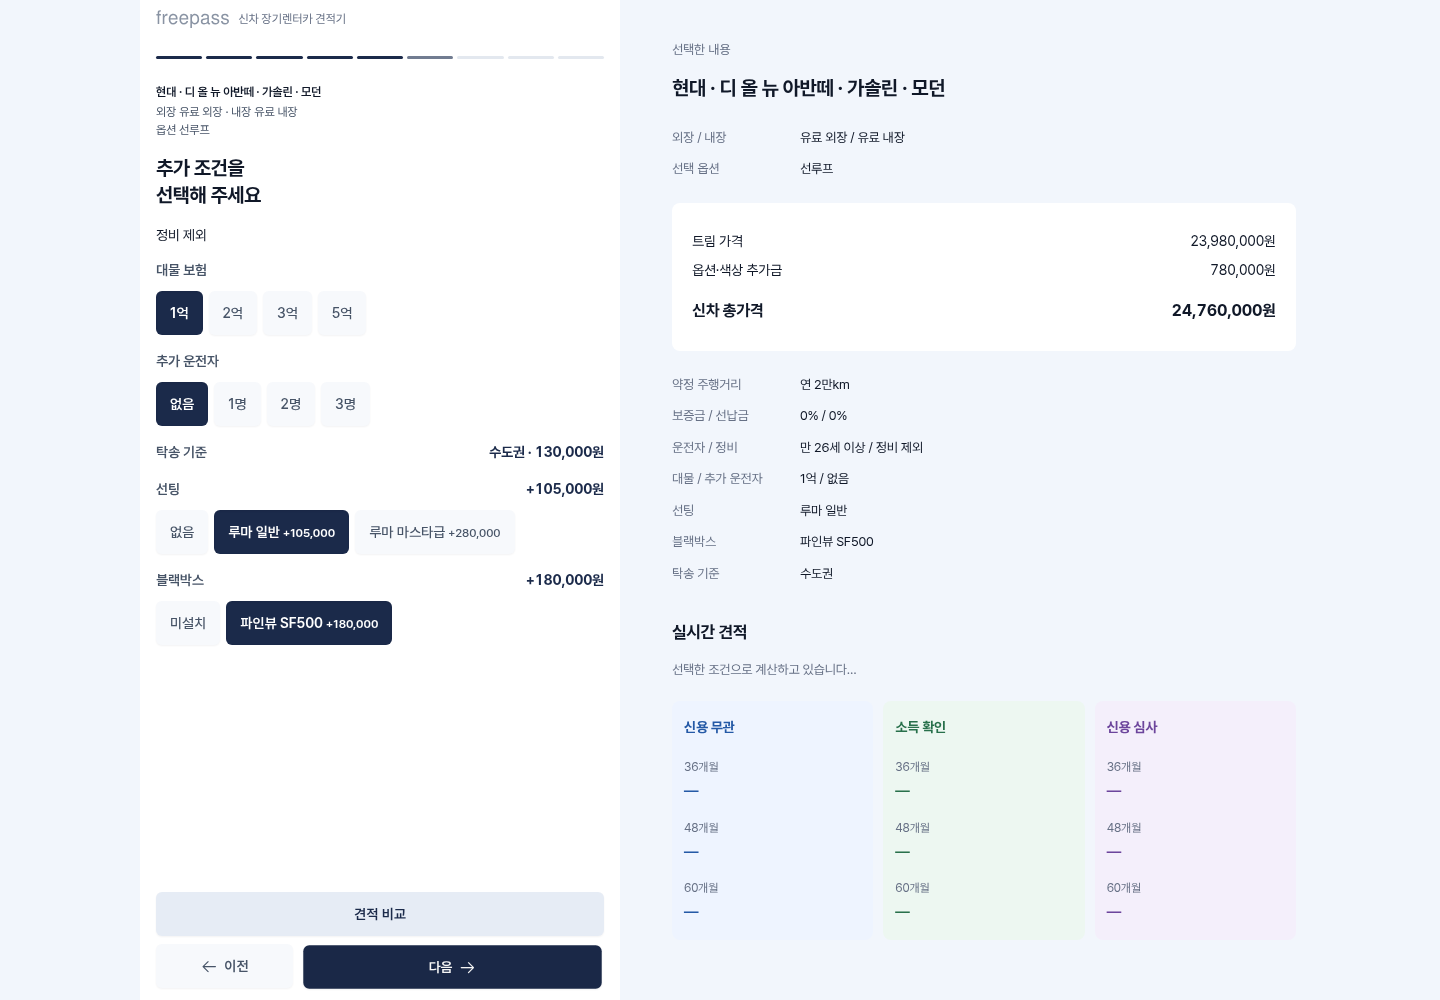
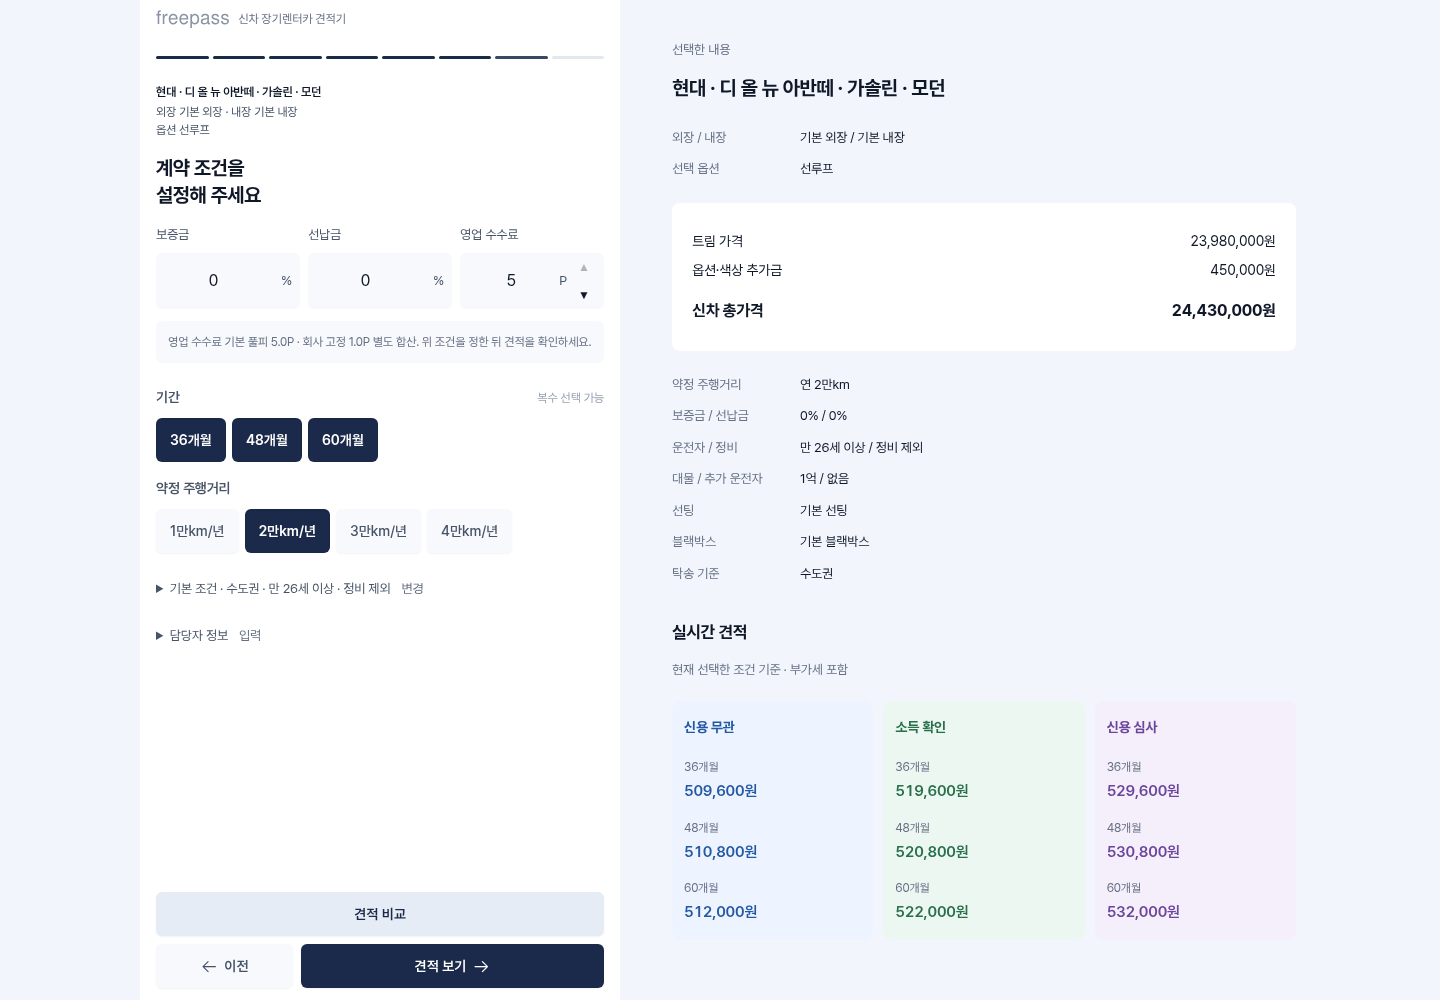
feat: streamline vehicle-to-finance flow with default colors and provider basic supplies

diff --git a/apps/new/src/components/mobile/StepConditions.vue b/apps/new/src/components/mobile/StepConditions.vue
@@ -3,6 +3,7 @@ import { computed } from 'vue';
 import { quoteState } from '../../store.js';
 import { KM_OPTIONS, toggleQuoteTerm, applyScenarioPercent } from '../../lib/feature/conditions.js';
 import FeeControl from '../FeeControl.vue';
+import StepExtras from './StepExtras.vue';
 
 const TERMS = [36, 48, 60];
 const KMS = KM_OPTIONS;
@@ -19,7 +20,12 @@ function toggleTerm(t) {
   <div class="sc">
     <h2 class="sc-title">계약 조건을<br>설정해 주세요</h2>
 
-    <p class="sc-note">보증금·선납금과 영업 수수료를 정한 뒤 견적을 확인하세요. 수수료는 풀피 5.0P로 시작합니다.</p>
+    <div class="sc-finance">
+      <label class="sc-finance__field"><span>보증금</span><span class="sc-finance__input"><input aria-label="보증금" type="number" inputmode="decimal" :value="quoteState.cond.dep" min="0" max="30" step="1" @input="applyScenarioPercent(quoteState, 'dep', $event.target.value)" /><span>%</span></span></label>
+      <label class="sc-finance__field"><span>선납금</span><span class="sc-finance__input"><input aria-label="선납금" type="number" inputmode="decimal" :value="quoteState.cond.pre" min="0" max="30" step="1" @input="applyScenarioPercent(quoteState, 'pre', $event.target.value)" /><span>%</span></span></label>
+      <div class="sc-finance__fees"><FeeControl compact /></div>
+    </div>
+    <p class="sc-note">영업 수수료 기본 풀피 5.0P · 회사 고정 1.0P 별도 합산. 위 조건을 정한 뒤 견적을 확인하세요.</p>
 
     <div class="sc-field">
       <div class="sc-label">
@@ -45,13 +51,15 @@ function toggleTerm(t) {
       </div>
     </div>
 
-    <div class="sc-finance">
-      <label class="sc-finance__field"><span>보증금</span><span class="sc-finance__input"><input aria-label="보증금" type="number" inputmode="decimal" :value="quoteState.cond.dep" min="0" max="30" step="1" @input="applyScenarioPercent(quoteState, 'dep', $event.target.value)" /><span>%</span></span></label>
-      <label class="sc-finance__field"><span>선납금</span><span class="sc-finance__input"><input aria-label="선납금" type="number" inputmode="decimal" :value="quoteState.cond.pre" min="0" max="30" step="1" @input="applyScenarioPercent(quoteState, 'pre', $event.target.value)" /><span>%</span></span></label>
-      <FeeControl />
+    <details class="sc-extra-conditions">
+      <summary>기본 조건 · 수도권 · 만 26세 이상 · 정비 제외 <span>변경</span></summary>
+      <StepExtras embedded />
+    </details>
+    <details class="sc-staff">
+      <summary>담당자 정보 <span>{{ quoteState.staff.name || '입력' }}</span></summary>
       <label class="sc-finance__field"><span>담당자 이름</span><input v-model.trim="quoteState.staff.name" aria-label="담당자 이름" type="text" autocomplete="name" maxlength="40" placeholder="이름 또는 직함" /></label>
       <label class="sc-finance__field"><span>담당자 연락처</span><input v-model.trim="quoteState.staff.tel" aria-label="담당자 연락처" type="tel" autocomplete="tel" maxlength="30" placeholder="010-0000-0000" /></label>
-    </div>
+    </details>
   </div>
 </template>
 
@@ -136,4 +144,17 @@ function toggleTerm(t) {
   font-style: normal; font-size: var(--fs-md);
   color: var(--ink-4); flex-shrink: 0;
 }
+</style>
+
+<style scoped>
+.sc-finance { display:grid; grid-template-columns:repeat(3,minmax(0,1fr)); gap:8px; margin:16px 0 12px; align-items:start; }
+.sc-finance > .sc-finance__field { display:flex; flex-direction:column; align-items:stretch; margin:0; gap:8px; min-width:0; font-size:13px; }
+.sc-finance__input { padding-inline:8px; gap:3px; min-height:56px; }
+.sc-finance__input input { width:100%; min-width:0; text-align:center; }
+.sc-finance__fees { min-width:0; }
+.sc-extra-conditions,.sc-staff { margin:24px 0; font-size:13px; }
+summary { cursor:pointer; line-height:1.8; color:var(--ink-2); }
+summary span { color:var(--ink-3); margin-left:8px; }
+.sc-extra-conditions[open] > summary,.sc-staff[open] > summary { margin-bottom:20px; }
+.sc-note { margin-bottom:24px; }
 </style>

diff --git a/apps/new/src/components/mobile/StepExtras.vue b/apps/new/src/components/mobile/StepExtras.vue
@@ -1,9 +1,11 @@
 <script setup>
 import { computed } from 'vue';
 import { quoteState } from '../../store.js';
-import { 썬팅들, 블박들 } from '../../lib/welrix-rates.js';
+import { 썬팅들, 블박들, 기본용품표시 } from '../../lib/welrix-rates.js';
 import { fmt } from '../../lib/format.js';
 import { resolveQuoteConditionCosts } from '../../lib/quote/condition-costs.js';
+
+defineProps({ embedded: { type:Boolean, default:false } });
 
 const INS = [
   { value: '1억', label: '1억' },
@@ -26,7 +28,7 @@ const dashcamFee = computed(() => currentCosts.value.dashcamFee);
 
 <template>
   <div class="se">
-    <h2 class="se-title">추가 조건을<br>선택해 주세요</h2>
+    <h2 v-if="!embedded" class="se-title">추가 조건을<br>선택해 주세요</h2>
 
     <p class="se-maintenance">정비 제외</p>
 
@@ -64,14 +66,14 @@ const dashcamFee = computed(() => currentCosts.value.dashcamFee);
     <div class="se-field">
       <div class="se-label">
         선팅
-        <span v-if="tintFee" class="se-label__val">+{{ fmt(tintFee) }}원</span>
+        <span v-if="tintFee && quoteState.tint.product !== '루마 일반'" class="se-label__val">+{{ fmt(tintFee) }}원</span>
       </div>
       <div class="se-chips">
         <button
           v-for="t in 썬팅들" :key="t.name"
           type="button" class="se-chip" :class="{ 'is-selected': quoteState.tint.product === t.name }" :aria-pressed="quoteState.tint.product === t.name"
           @click="quoteState.tint.product = t.name"
-        >{{ t.name }}<small v-if="t.price"> +{{ fmt(t.price) }}</small></button>
+        >{{ 기본용품표시(t.name) }}<small v-if="t.price && t.name !== '루마 일반'"> +{{ fmt(t.price) }}</small></button>
       </div>
     </div>
 
@@ -79,7 +81,7 @@ const dashcamFee = computed(() => currentCosts.value.dashcamFee);
     <div class="se-field">
       <div class="se-label">
         블랙박스
-        <span v-if="dashcamFee" class="se-label__val">
+        <span v-if="dashcamFee && quoteState.extras.blackbox !== '파인뷰 SF500'" class="se-label__val">
           +{{ fmt(dashcamFee) }}원</span>
       </div>
       <div class="se-chips">
@@ -87,7 +89,7 @@ const dashcamFee = computed(() => currentCosts.value.dashcamFee);
           v-for="b in 블박들" :key="b.name"
           type="button" class="se-chip" :class="{ 'is-selected': quoteState.extras.blackbox === b.name }" :aria-pressed="quoteState.extras.blackbox === b.name"
           @click="quoteState.extras.blackbox = b.name"
-        >{{ b.name }}<small v-if="b.price"> +{{ fmt(b.price) }}</small></button>
+        >{{ 기본용품표시(b.name) }}<small v-if="b.price && b.name !== '파인뷰 SF500'"> +{{ fmt(b.price) }}</small></button>
       </div>
     </div>
 

diff --git a/apps/new/src/components/mobile/StepVehicle.vue b/apps/new/src/components/mobile/StepVehicle.vue
@@ -5,7 +5,7 @@ import { 역할 } from '../../lib/role.js';
 import { rolePolicy } from '../../lib/feature/roles.js';
 import { POPULAR_BRAND, POPULAR_MODELS, sortByRank } from '../../data/popular-rankings.js';
 import { fmt, guessColor } from '../../lib/format.js';
-import { colorPriceLabel, exteriorColorsFor } from '../../lib/exterior-paint.js';
+import { colorPriceLabel, exteriorColorsFor, defaultColorIndex } from '../../lib/exterior-paint.js';
 import SelectionSummary from './SelectionSummary.vue';
 import { resolveCanonicalIdentity } from '../../lib/newcar/configuration-resolver.js';
 
@@ -79,7 +79,7 @@ onMounted(() => {
   /* ★공유 링크로 들어온 경우 — 트림은 이미 정해져 있는데 «트림을 고를 때 도는 뒷일»
      (syncVehicle)이 안 돌아서 월 대여료가 «—» 로 남는다. 여기서 한 번 돌려 준다.
      손으로 고른 경우엔 selectTrim 이 이미 돌렸으므로 다시 돌아도 값이 같다. */
-  if (vehicleState.trim) syncVehicle();
+  if (vehicleState.trim) { ensureDefaultColors(); syncVehicle(); }
 });
 
 // sub-step — vehicleState.subStep 에 저장 (MobileApp next() 와 통합)
@@ -344,6 +344,20 @@ function selectSpec(g) {
   resetQuoteVehicleWhenSelectionChanges(result);
   subStep.value = vehicleSelection.nextStepAfterSelection('trimGroup');
 }
+function ensureDefaultColors() {
+  if (!exteriorColors.value[vehicleState.color] || exteriorColors.value[vehicleState.color]?._paintUnavailable) {
+    vehicleState.color = defaultColorIndex(exteriorColors.value);
+  }
+  const current = 내장색들.value.find(color => color.stableId && color.stableId === quoteState.cond.colorIntId || color.value === quoteState.cond.colorInt);
+  if (!current) {
+    const index = defaultColorIndex(내장색들.value);
+    const color = index == null ? null : 내장색들.value[index];
+    quoteState.cond.colorInt = color?.value || '';
+    quoteState.cond.colorIntPrice = color?.price || 0;
+    quoteState.cond.colorIntId = color?.stableId || null;
+  }
+}
+
 function selectTrim(t) {
   const result = vehicleSelection.applySelection(vehicleState, 'trim', t.trim_id);
   if (result.changed) {
@@ -351,8 +365,10 @@ function selectTrim(t) {
     quoteState.cond.colorIntPrice = 0;
     quoteState.cond.colorIntId = null;
     quoteState.vehicle = null;
+    ensureDefaultColors();
     syncVehicle();
   } else if (!quoteState.vehicle) {
+    ensureDefaultColors();
     syncVehicle();
   }
 

diff --git a/apps/new/src/components/FeeControl.vue b/apps/new/src/components/FeeControl.vue
@@ -3,6 +3,7 @@ import { computed, ref, watch } from 'vue';
 import { commissionForAgent } from '../lib/quote/commission-policy.js';
 import { quoteState } from '../store.js';
 import { CONDITION_LIMITS, normalizeFeeRate } from '../lib/feature/conditions.js';
+defineProps({ compact: { type:Boolean, default:false } });
 const rule = CONDITION_LIMITS.feeRatePct;
 const commission = computed(() => commissionForAgent(quoteState.cond.feeRatePct));
 const draft = ref(String(quoteState.cond.feeRatePct));
@@ -21,7 +22,7 @@ function adjust(direction) {
 </script>
 
 <template>
-  <div class="fee-control">
+  <div class="fee-control" :class="{ 'fee-control--compact':compact }">
     <span>영업 수수료</span>
     <div class="fee-control__input">
       <input type="number" aria-label="영업 수수료" inputmode="decimal" :value="draft" :min="rule.min" :max="rule.max" :step="rule.step" @input="draft = $event.target.value" @change="apply(draft)" @blur="apply(draft)" @keydown.enter="apply(draft)" />
@@ -32,7 +33,7 @@ function adjust(direction) {
       </div>
     </div>
   </div>
-  <p class="fee-control__hint">0.5P 단위 · 회사 1.0P 고정 + 영업 {{ commission.agentPoints.toFixed(1) }}P = 적용 {{ commission.totalPoints.toFixed(1) }}P</p>
+  <p class="fee-control__hint" :class="{ 'fee-control__hint--compact':compact }">0.5P 단위 · 회사 1.0P 고정 + 영업 {{ commission.agentPoints.toFixed(1) }}P = 적용 {{ commission.totalPoints.toFixed(1) }}P</p>
 </template>
 
 <style scoped>
@@ -49,4 +50,12 @@ input::-webkit-inner-spin-button, input::-webkit-outer-spin-button { -webkit-app
 .fee-control__buttons button { border:0; background:transparent; color:var(--fp-text); min-width:44px; min-height:32px; cursor:pointer; font-size:12px; }
 .fee-control__buttons button:disabled { opacity:.3; cursor:default; }
 .fee-control__buttons button:focus-visible { outline:3px solid var(--fp-focus-ring); border-radius:4px; }
+</style>
+
+<style scoped>
+.fee-control--compact { display:flex; flex-direction:column; align-items:stretch; gap:8px; max-width:none; margin:0; font-size:13px; }
+.fee-control--compact .fee-control__input { gap:3px; padding:0 6px; min-width:0; }
+.fee-control--compact input { width:100%; min-width:0; text-align:center; }
+.fee-control--compact .fee-control__buttons button { min-width:28px; min-height:28px; }
+.fee-control__hint--compact { display:none; }
 </style>

diff --git a/apps/new/api/kamatch-comparison.js b/apps/new/api/kamatch-comparison.js
@@ -1,3 +1,4 @@
+import { kamatchExtraOptions } from './_kamatch/condition-costs.js';
 import { commissionFromConditions } from '../src/lib/quote/commission-policy.js';
 import { authoritativeQuoteRequest } from './_master/authoritative-request.js';
 import { calculateKamatchScenario } from './_kamatch/calculate.js';
@@ -21,7 +22,7 @@ export function createKamatchComparisonHandler({ loadMaster, loadReference = loa
       if(!Number.isFinite(mileage)||mileage<=0||!Number.isFinite(conditions.수수료율)||conditions.수수료율 < -10||conditions.수수료율>7) throw kamatchError('주행거리 또는 수수료를 확인해 주세요.','KAMATCH_INPUT_INVALID',400);
       const costs=conditions.비용;
       if(!costs||['deliveryFee','tintFee','dashcamFee','naviFee','hipassFee'].some(k=>!Number.isSafeInteger(costs[k])||costs[k]<0)) throw kamatchError('용품 비용을 확인해 주세요.','KAMATCH_COST_MAPPING_UNAVAILABLE',422);
-      const extraOptions=['deliveryFee','tintFee','dashcamFee'].map(k=>({ amount:costs[k],baseline:profile.baselines[k],removed:costs[k]===0 }));
+      const extraOptions=kamatchExtraOptions(costs,profile.baselines);
       const creditType=conditions.신용==='저신용'?'low':'general';
       const price=canonical.priceBasis;
       const vehicles=reference.tables['/api/vehicles'].filter(v=>['brand','model','lineup','trim'].every(k=>v[k]===profile[k]));

diff --git a/apps/new/src/components/DesktopQuoteCompanion.vue b/apps/new/src/components/DesktopQuoteCompanion.vue
@@ -6,6 +6,7 @@ import { selectionSummary } from '../lib/selection-summary.js';
 import { PUBLIC_OFFERS, publicOfferDefinition } from '../lib/quote/public-offers.js';
 import { vehiclePriceBreakdown } from '../lib/vehicle-price-breakdown.js';
 import { QUOTE_REGION } from '../lib/quote/launch-region.js';
+import { 기본용품표시 } from '../lib/welrix-rates.js';
 import { fmt } from '../lib/format.js';
 
 // Read the shared selection and calculation only. This panel never issues requests.
@@ -39,8 +40,8 @@ const conditionRows = computed(() => [
   ['보증금 / 선납금', financeText.value],
   ['운전자 / 정비', '만 26세 이상 / 정비 제외'],
   ['대물 / 추가 운전자', `${conditions.value.insProperty || '1억'} / ${conditions.value.extraDriver || '없음'}`],
-  ['선팅', snapshot.value ? conditions.value.tint : quoteState.tint?.product || '없음'],
-  ['블랙박스', snapshot.value ? conditions.value.blackbox : quoteState.extras?.blackbox || '미설치'],
+  ['선팅', 기본용품표시(snapshot.value ? conditions.value.tint : quoteState.tint?.product || '없음')],
+  ['블랙박스', 기본용품표시(snapshot.value ? conditions.value.blackbox : quoteState.extras?.blackbox || '미설치')],
   ['탁송 기준', snapshot.value?.conditions?.deliveryCity || QUOTE_REGION],
 ]);
 </script>

diff --git a/apps/new/src/components/mobile/MobileApp.vue b/apps/new/src/components/mobile/MobileApp.vue
@@ -7,7 +7,6 @@ import { 지금주소 } from '../../lib/share-link.js';
 import { quoteActionReadiness, resetForRequote } from '../../lib/feature/actions.js';
 import StepVehicle from './StepVehicle.vue';
 import StepConditions from './StepConditions.vue';
-import StepExtras from './StepExtras.vue';
 import StepResult from './StepResult.vue';
 import { 다시표시계산 as 다시계산, 표시견적 as 견적상태 } from '../../lib/quote/display-runtime.js';
 import { requestCommissionMark } from '../../lib/commission-mark.js';
@@ -37,7 +36,6 @@ const 공유제목 = computed(() => '신차 장기렌트 견적');
 // 발송/공유는 단계(step)가 아니다. 결과 화면의 하단 액션 영역에서만 노출한다.
 const STEPS = [
   { key: 'vehicle',    label: '차량',     comp: StepVehicle    },
-  { key: 'extras',     label: '용품·서비스', comp: StepExtras   },
   { key: 'conditions', label: '계약 조건', comp: StepConditions },
   /* ★견적은 별도 페이지로 (대표 2026-09-18) */
   { key: 'result',     label: '견적',     comp: StepResult     },

diff --git a/apps/new/api/_kamatch/condition-costs.js b/apps/new/api/_kamatch/condition-costs.js
@@ -1,0 +1,14 @@
+// Shared default selections mean the provider's reviewed basic configuration,
+// not another provider's product or accessory price.
+export function kamatchExtraOptions(costs, baselines) {
+  const defaultSelection = {
+    deliveryFee: costs.basis?.delivery === 'LAUNCH_REGION:수도권',
+    tintFee: costs.basis?.tint === 'COMPAT_FIXED:루마 일반',
+    dashcamFee: costs.basis?.dashcam === 'COMPAT_FIXED:파인뷰 SF500',
+  };
+  return ['deliveryFee','tintFee','dashcamFee'].map(key => ({
+    amount: defaultSelection[key] ? baselines[key] : costs[key],
+    baseline: baselines[key],
+    removed: !defaultSelection[key] && costs[key] === 0,
+  }));
+}

diff --git a/apps/new/src/lib/exterior-paint.js b/apps/new/src/lib/exterior-paint.js
@@ -60,3 +60,16 @@ export function restorePaintSelection(db, state) {
   }
   for (const id of selectedPaint) state.options.delete(id);
 }
+
+// Basic means no surcharge where available; otherwise the least expensive
+// selectable color in source order. Never infer a color from its display name.
+export function defaultColorIndex(colors = []) {
+  let best = null;
+  let bestPrice = Infinity;
+  colors.forEach((color,index) => {
+    const amount = Number(color?._price_won ?? color?.price);
+    if (color?._paintUnavailable || !Number.isFinite(amount) || amount < 0) return;
+    if (amount < bestPrice) { best = index; bestPrice = amount; }
+  });
+  return best;
+}

diff --git a/apps/new/src/lib/welrix-rates.js b/apps/new/src/lib/welrix-rates.js
@@ -60,3 +60,5 @@ export const 웰릭스기본 = {
 
 export const 썬팅값 = (이름) => 썬팅들.find((x) => x.name === 이름)?.price || 0;
 export const 블박값 = (이름) => 블박들.find((x) => x.name === 이름)?.price || 0;
+
+export const 기본용품표시 = name => ({'루마 일반':'기본 선팅','파인뷰 SF500':'기본 블랙박스'}[name] || name);

diff --git a/docs/FUNCTIONAL_HANDOFF_20261031.md b/docs/FUNCTIONAL_HANDOFF_20261031.md
@@ -90,3 +90,14 @@ UI 수정 시 공급사 명칭 비노출, 동일 가격 기준, 회사 고정 1P
 ## 영업 수수료 기본값 후속 확정
 
 새 견적은 영업 풀피 5.0P로 시작하며 회사 고정 1.0P를 더해 총 6.0P를 적용한다. 이전 견적에서 낮춘 수수료를 새 견적의 기본값으로 자동 가져오지 않는다. 보증금·선납금·영업 수수료는 같은 계약 조건 화면에 있고 영업자가 조정한 뒤 견적 보기로 최종 견적 페이지에 진입한다. 오른쪽 보조 영역은 현재 조건을 미리 보여주는 공통 결과 표시다. 확정 견적/PNG/공유는 조정 후의 동일한 입력과 금액을 사용한다. 저장된 공유 금액은 유지하며 공유 견적에서 새 계산을 시작할 때 수수료는 다시 풀피로 설정한다.
+
+
+## 동선 단축 및 기본 선택 (최신 사용자 요청)
+
+제조사/모델/파워트레인/트림의 누르는 즉시 이동은 유지한다. 트림 선택 시 외장·내장색은 선택 가능한 추가금 없는 색상을 우선 선택한다. 무료 색상이 없는 경우 확인된 최저가 색상을 source 순서로 선택하며 유료 색상 금액을 숨기거나 무료로 만들지 않는다. 사용자가 고른 색상은 뒤로 이동해도 유지하고 트림 변경 시 해당 트림 색상으로 다시 설정한다.
+
+옵션은 비워 둔 채 다음으로 진행할 수 있다. 원래 배타그룹·선행조건·종속 해제와 서버 stable-ID 검증을 유지했다. 별도 추가 조건 페이지를 제거해 옵션 다음은 곧바로 계약 조건이다. 맨 위 한 줄에 **보증금 / 선납금 / 영업 수수료**를 배치한다. 수수료 초기값 풀피 5P, 0.5P 조정, 회사 1P 고정은 그대로다. 기간·주행은 그 아래, 수도권·보험·기본 용품은 접힌 기본 조건, 담당자 정보는 접힌 수정 영역이다. 최종 견적 진입은 이 화면의 견적 보기 버튼이다. 웹도 동일 컴포넌트를 사용한다.
+
+기본 용품 선택은 각 공급사의 검토된 기본 구성으로 연결한다. 카매치 어댑터는 수도권 기본 탁송/기본 선팅/기본 블랙박스 선택에 다른 공급사의 단가 차이를 추가하지 않는다. 임의의 원가를 새로 만들지 않고 검토된 profile.baselines를 사용한다. 기존 명시적 용품 변경/제외 요청의 차액 경로는 유지했다. 고객 화면에는 기본 선팅/기본 블랙박스로 표시한다.
+
+검증: 기본 무료 색상 자동 선택, 옵션 미선택 진행/뒤로 복귀, 상단 세 입력의 배치와 풀피 기본값, 기본 조건 접힘, 배타/선행/종속 해제, 트림별 master 규칙, 원본 단가와 기본 용품의 추가금 중복 방지 검사 통과. 실제 브라우저의 3종 9개 금액/수수료 조정/PNG/공유 재열기·재복사도 통과했다. 실 API 통합 실행은 합성 Data·카매치 fixture와 실제 웰릭스 응답의 조합이며, 별도 UI 회귀 실행은 전체 합성 fixture다.

diff --git a/docs/UI_BASELINE.md b/docs/UI_BASELINE.md
@@ -219,3 +219,8 @@ UI 변경은 다음을 모두 만족해야 한다.
 - 기존 데이터베이스 저장 견적 `?q=`와 관리자 `?admin=1`만 격리된 `legacy-quote.html`에서 호환한다. 신규 견적의 기본 진입으로 사용하지 않는다.
 
 이 지시는 위의 과거 웹 전용 구조 설명보다 우선한다.
+
+
+### 후속 동선 확정
+
+자동 전진하는 차량 선택은 유지한다. 색상 기본 선택, 옵션 미선택 진행을 제공한다. 별도 추가 조건 페이지를 거치지 않고 옵션 → 계약 조건 → 최종 견적으로 이동한다. 계약 조건 맨 위에는 보증금·선납금·영업 수수료를 한 줄로 표시한다. 기본 조건과 담당자 정보는 접힌 수정 영역으로 제공한다. 웹의 왼쪽도 동일하다.
